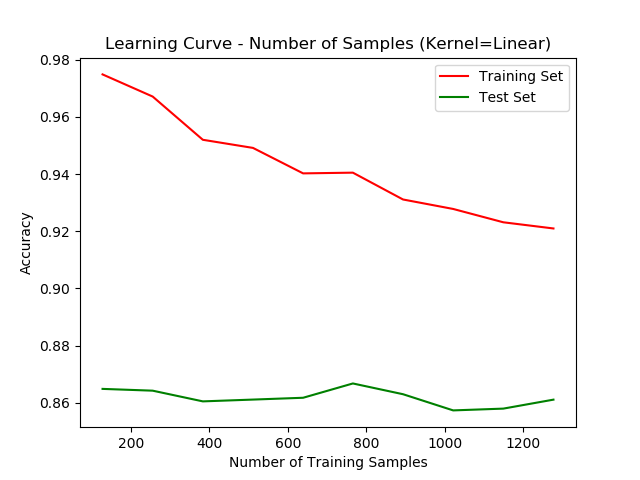
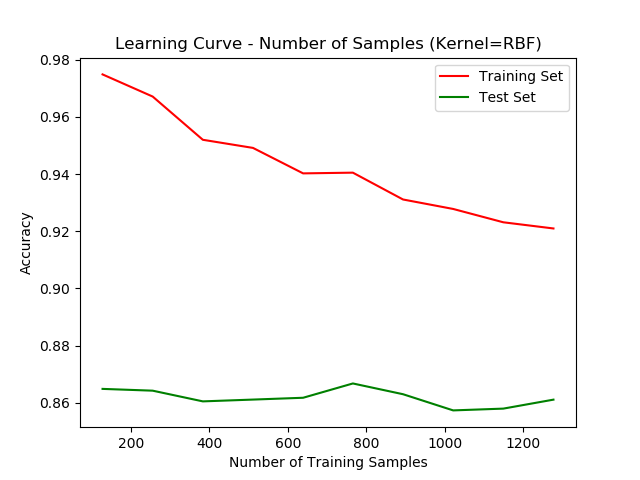
updating graphs and readmes

Changed region(s): [[0.1562, 0.0625, 0.875, 0.125]]

diff --git a/solution/classifiers/census_knn.py b/solution/classifiers/census_knn.py
@@ -31,7 +31,8 @@ feature_cols = ['age_num', 'education-num', 'marital-status_Single',
                 'capital-loss', 'sex_Male', 'from_united_states']
 
 kfold = KFold(n_splits=5)
-cls = KNeighborsClassifier()
+weighting = 'distance'  # NOTE: Change this value to output graphs for different weight types.
+cls = KNeighborsClassifier(weights=weighting)
 
 # Plot the learning curve vs train size.
 # Helps determine the train vs test split split ratio
@@ -40,7 +41,7 @@ helpers.plot_learning_curve_vs_train_size(
     df,
     feature_cols,
     'income_num',
-    output_location='census_output/knn_num_samples_learning_curve.png'
+    output_location='census_output/knn_%s_num_samples_learning_curve.png' % weighting
 )
 
 x_train, x_test, y_train, y_test = train_test_split(
@@ -52,7 +53,7 @@ x_train, x_test, y_train, y_test = train_test_split(
 
 # Plot the learning curve for max iter vs mean test score
 helpers.plot_learning_curve_vs_param_train_and_test(
-    KNeighborsClassifier(),
+    KNeighborsClassifier(weights=weighting),
     x_train,
     y_train,
     x_test=x_test,
@@ -62,15 +63,14 @@ helpers.plot_learning_curve_vs_param_train_and_test(
     cv=5,
     param_name='N Neighbors',
     measure_type='mean_test_score',
-    output_location='census_output/knn_n_neighbors_learning_curve.png'
+    output_location='census_output/knn_%s_n_neighbors_learning_curve.png' % weighting
 )
 
 # Find the best model via GridSearchCV
 grid_search = GridSearchCV(
-    estimator=KNeighborsClassifier(),
+    estimator=KNeighborsClassifier(weights=weighting),
     param_grid={
         'n_neighbors': [5, 10, 20, 30, 40, 50, 60, 70, 80, 90, 100],
-        'weights': ['uniform', 'distance'],
     },
     cv=5
 )
@@ -95,7 +95,7 @@ helpers.plot_learning_curve_vs_train_size(
     df,
     feature_cols,
     'income_num',
-    output_location='census_output/knn_best_model_num_samples_learning_curve.png',
+    output_location='census_output/knn_%s_best_model_num_samples_learning_curve.png' % weighting,
 )
 
 # Predict income with the trained best model
@@ -106,7 +106,7 @@ helpers.produce_model_performance_summary(
     x_test,
     y_test,
     y_pred,
-    output_location='census_output/KNN_summary.txt',
+    output_location='census_output/KNN_%s_summary.txt' % weighting,
     cv=kfold,
     scoring='accuracy'
 )

diff --git a/solution/classifiers/wine_knn.py b/solution/classifiers/wine_knn.py
@@ -26,7 +26,8 @@ feature_cols = ['fixed acidity', 'volatile acidity', 'citric acid', 'residual su
                 'free sulfur dioxide', 'total sulfur dioxide', 'density', 'pH', 'sulphates', 'alcohol']
 
 kfold = KFold(n_splits=3)
-cls = cls = KNeighborsClassifier()
+weighting = 'distance'
+cls = KNeighborsClassifier(weights=weighting)
 
 # Plot the learning curve vs train size.
 # Helps determine the train vs test split split ratio
@@ -35,7 +36,7 @@ helpers.plot_learning_curve_vs_train_size(
     df,
     feature_cols,
     'quality_num',
-    output_location='wine_output/knn_samples_learning_curve.png'
+    output_location='wine_output/knn_%s_samples_learning_curve.png' % weighting
 )
 
 x_train, x_test, y_train, y_test = train_test_split(
@@ -47,7 +48,7 @@ x_train, x_test, y_train, y_test = train_test_split(
 
 # Plot the learning curve for max iter vs mean test score
 helpers.plot_learning_curve_vs_param_train_and_test(
-    KNeighborsClassifier(),
+    KNeighborsClassifier(weights=weighting),
     x_train,
     y_train,
     x_test=x_test,
@@ -57,12 +58,12 @@ helpers.plot_learning_curve_vs_param_train_and_test(
     param_name='N Neighbors',
     cv=3,
     measure_type='mean_test_score',
-    output_location='wine_output/knn_n_neighbors_learning_curve.png'
+    output_location='wine_output/knn_%s_n_neighbors_learning_curve.png' % weighting
 )
 
 # Find the best model via GridSearchCV
 grid_search = GridSearchCV(
-    estimator=KNeighborsClassifier(weights='distance'),
+    estimator=KNeighborsClassifier(weights=weighting),
     param_grid={
         'n_neighbors': [5, 10, 20, 30, 40, 50, 60, 70, 80, 90, 100],
     },
@@ -91,7 +92,7 @@ helpers.produce_model_performance_summary(
     x_test,
     y_test,
     y_pred,
-    output_location='wine_output/knn_summary.txt',
+    output_location='wine_output/knn_%s_summary.txt' % weighting,
     cv=3,
     scoring='accuracy'
 )

diff --git a/solution/classifiers/wine_svm.py b/solution/classifiers/wine_svm.py
@@ -29,7 +29,7 @@ feature_cols = ['fixed acidity', 'volatile acidity', 'citric acid', 'residual su
                 'free sulfur dioxide', 'total sulfur dioxide', 'density', 'pH', 'sulphates', 'alcohol']
 
 kfold = KFold(n_splits=3)
-cls = cls = SVC()
+cls = SVC()
 
 # Plot the learning curve vs train size.
 # Helps determine the train vs test split split ratio
@@ -38,7 +38,7 @@ helpers.plot_learning_curve_vs_train_size(
     df,
     feature_cols,
     'quality_num',
-    title='Learning Curve - Number of Samples (Kernel=Linear)',
+    title='Learning Curve - Number of Samples (Kernel=RBF)',
     output_location='wine_output/svm_rbf_num_samples_learning_curve.png'
 )
 

diff --git a/solution/classifiers/census_svm.py b/solution/classifiers/census_svm.py
@@ -74,7 +74,7 @@ helpers.plot_learning_curve_vs_param_train_and_test(
     param_values=[100, 500, 1000, 1500, 2000, 3000, 4000, 5000],
     x_test=x_test,
     y_test=y_test,
-    param_name='Max Iterations',
+    param_name='(Kernel=RBF) Max Iterations',
     output_location='census_output/svm_rbf_max_iter_learning_curve.png'
 )
 
@@ -88,7 +88,7 @@ helpers.plot_learning_curve_vs_param_train_and_test(
     param_values=[100, 500, 1000, 1500, 2000, 3000, 4000, 5000],
     x_test=x_test,
     y_test=y_test,
-    param_name='Max Iterations',
+    param_name='(Kernel=Linear) Max Iterations',
     output_location='census_output/svm_linear_max_iter_learning_curve.png'
 )
 

diff --git a/solution/classifiers/census_neural_network.py b/solution/classifiers/census_neural_network.py
@@ -26,10 +26,6 @@ CSV_FILENAME = "raw_census_data.csv"
 df = pd.read_csv(os.path.join(DATA_PATH, CSV_FILENAME))
 df = CensusDataLoader(df).apply_pipeline()
 
-# These are subject to change based on pre-processing
-# feature_cols = ['age_num', 'education-num', 'marital-status_Single',
-#                 'hours-per-week', 'capital-gain',
-#                 'capital-loss']
 feature_cols = ['age_num', 'education-num', 'marital-status_Single',
                 'hours-per-week', 'capital-gain',
                 'capital-loss', 'sex_Male', 'from_united_states']

diff --git a/solution/classifiers/wine_boosting.py b/solution/classifiers/wine_boosting.py
@@ -27,7 +27,7 @@ feature_cols = ['fixed acidity', 'volatile acidity', 'citric acid', 'residual su
 
 kfold = KFold(n_splits=3)
 # defaults to weak learner DecisionTreeClassifier with max_depth=1
-cls = cls = AdaBoostClassifier()
+cls = AdaBoostClassifier()
 
 # Plot the learning curve vs train size.
 # Helps determine the train vs test split split ratio

diff --git a/README.md b/README.md
@@ -1,12 +1,49 @@
 # cs7641-Project-1
 Project 1
+Repository: https://github.com/eazymac25/cs7641-Project-1
 
-### Data Sets
+## Data Sets
 
 - US Census Data
 - Wine Acidity
 
-### Classifiers
+## Classifiers
 - Decision Tree with pruning
-- SVM
-- Neural Network
+- Multi-Layer Neural Network
+- Boosted Decision Tree
+- Support Vector Machine
+- KNN
+
+
+## Installation
+
+NOTE: The installation relies on Anaconda.
+
+### Prerequisites
+ - [Anaconda](https://www.anaconda.com/)
+    - please download the anaconda appropriate for your OS.
+    - **Version**: Python 3.7.1
+    
+```bash
+# make sure to install graphviz
+sudo apt-get install graphviz
+# or for Macs
+sudo brew install graphviz
+
+git clone https://github.com/eazymac25/cs7641-Project-1.git
+
+cd cs7641-Project-1
+
+conda create --name myenv python=3.7 # creates full env
+
+# or
+
+conda env create -f environment.yml
+
+# activate the env
+conda activate myenv
+
+# skip if you used the environment.yml
+conda install --file requirements.txt
+
+```
